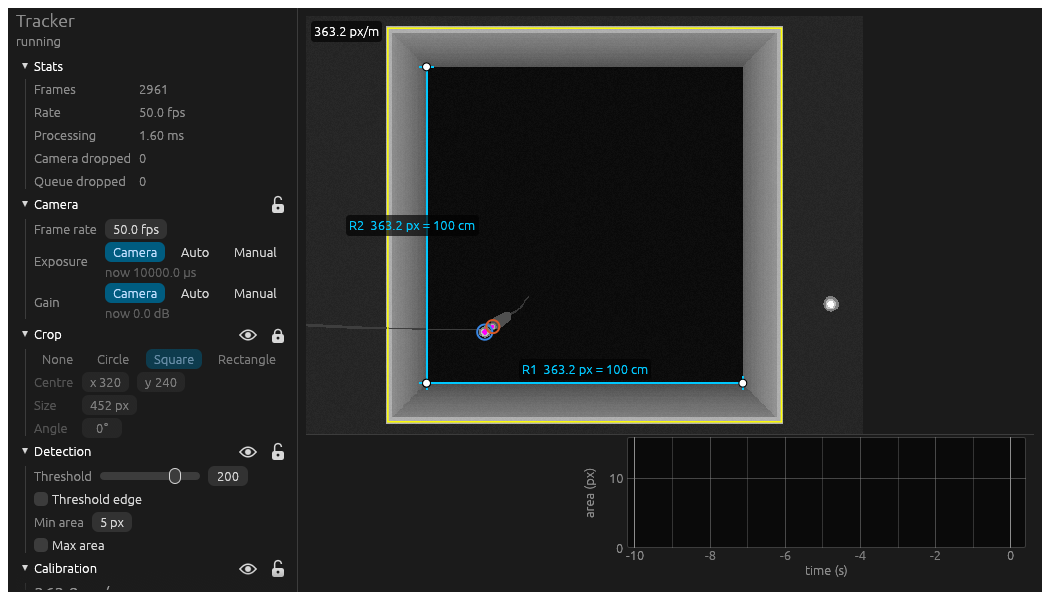
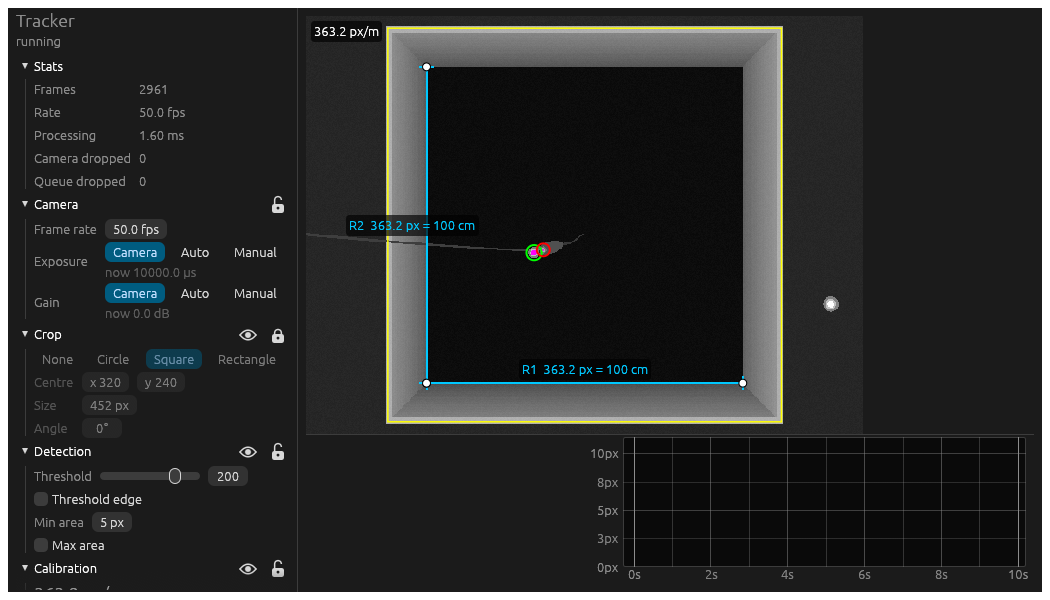
LED chart: green/red, relative seconds, px tick labels, no legend
- Big/small LEDs back to green/red, the long-standing convention (video
  circles and chart); which line is which is clear from their sizes, so no
  legend
- x runs from 0 s at the oldest buffered frame: lines fill from the left,
  then scroll once 10 s are buffered; ticks are labelled 0s, 2s, ...
- y ticks at round steps scaled to the data, labelled 0px, 10px, ...
- No separate axis titles

diff --git a/tracker/src/gui/strip.rs b/tracker/src/gui/strip.rs
@@ -4,7 +4,7 @@
 use std::collections::VecDeque;
 
 use eframe::egui::{self, Color32};
-use egui_plot::{uniform_grid_spacer, Corner, Legend, Line, Plot, PlotBounds};
+use egui_plot::{uniform_grid_spacer, Line, Plot, PlotBounds};
 
 use crate::tracker::LED_HISTORY;
 
@@ -12,52 +12,55 @@ pub const AMBER: Color32 = Color32::from_rgb(230, 170, 60);
 /// Width of the LED chart at the right of the strip.
 pub const READOUT_WIDTH: f32 = 440.0;
 
-/// Big and small LED colours, for dark and light themes: the first two slots of a categorical palette
-/// validated for colour-vision deficiency against egui's panel colours (unlike green/red).
-pub fn led_colours(dark_mode: bool) -> [Color32; 2] {
-    if dark_mode {
-        [Color32::from_rgb(0x39, 0x87, 0xe5), Color32::from_rgb(0xd9, 0x59, 0x26)]
-    } else {
-        [Color32::from_rgb(0x2a, 0x78, 0xd6), Color32::from_rgb(0xeb, 0x68, 0x34)]
-    }
+/// Big (green) and small (red) LED, the colours tracking setups have long used for the two head LEDs.
+/// (Which line is which is also clear from their sizes.)
+pub fn led_colours(_dark_mode: bool) -> [Color32; 2] {
+    [Color32::GREEN, Color32::RED]
 }
 
-/// Areas of the big and small LED over the last `LED_HISTORY` seconds, with time relative to the latest
-/// frame. Frames where an LED wasn't seen leave a gap in its line.
+/// Areas of the big and small LED over the buffered history (up to `LED_HISTORY` seconds), with 0 s at the
+/// oldest buffered frame: the lines fill from the left, then scroll once the buffer is full. Frames where an
+/// LED wasn't seen leave a gap in its line.
 pub fn led_chart(ui: &mut egui::Ui, history: &VecDeque<(f64, [u32; 2])>) {
     let colours = led_colours(ui.visuals().dark_mode);
-    let end = history.back().map_or(0.0, |&(t, _)| t);
-    // Headroom above the data keeps the legend (top left) clear of the lines.
-    let top = history.iter().map(|&(_, a)| a[0].max(a[1])).max().unwrap_or(0).max(10) as f64 * 1.6;
+    let start = history.front().map_or(0.0, |&(t, _)| t);
+    let top = history.iter().map(|&(_, a)| a[0].max(a[1])).max().unwrap_or(0).max(10) as f64 * 1.15;
+    let step = nice_step(top / 5.0);
 
     Plot::new("led_sizes")
         .width(READOUT_WIDTH)
         .height(ui.available_height())
-        .legend(Legend::default().position(Corner::LeftTop))
-        .x_axis_label("time (s)")
         .x_grid_spacer(uniform_grid_spacer(|_| [1.0, 2.0, 10.0]))
-        .y_axis_label("area (px)")
+        .x_axis_formatter(|mark, _| format!("{}s", mark.value.round()))
+        .y_grid_spacer(uniform_grid_spacer(move |_| [step / 2.0, step, step * 10.0]))
+        .y_axis_formatter(|mark, _| format!("{}px", mark.value.round()))
         .allow_zoom(false)
         .allow_drag(false)
         .allow_scroll(false)
         .allow_boxed_zoom(false)
         .allow_double_click_reset(false)
         .show(ui, |plot| {
-            plot.set_plot_bounds(PlotBounds::from_min_max([-LED_HISTORY - 0.2, 0.0], [0.4, top])); // room for the end ticks
+            plot.set_plot_bounds(PlotBounds::from_min_max([-0.3, 0.0], [LED_HISTORY + 0.2, top])); // room for the end ticks
             for (i, name) in ["Big", "Small"].into_iter().enumerate() {
-                for run in seen_runs(history, i, end) {
+                for run in seen_runs(history, i, start) {
                     plot.line(Line::new(name, run).color(colours[i]).width(2.0));
                 }
             }
         });
 }
 
-/// Runs of consecutive frames in which LED `i` was seen, as (seconds before `end`, area) points.
-fn seen_runs(history: &VecDeque<(f64, [u32; 2])>, i: usize, end: f64) -> Vec<Vec<[f64; 2]>> {
+/// A round tick spacing (1, 2 or 5 times a power of ten) of at least `raw`.
+fn nice_step(raw: f64) -> f64 {
+    let power = 10f64.powf(raw.max(1e-9).log10().floor());
+    [1.0, 2.0, 5.0, 10.0].into_iter().map(|m| m * power).find(|&s| s >= raw).unwrap()
+}
+
+/// Runs of consecutive frames in which LED `i` was seen, as (seconds after `start`, area) points.
+fn seen_runs(history: &VecDeque<(f64, [u32; 2])>, i: usize, start: f64) -> Vec<Vec<[f64; 2]>> {
     let mut runs = vec![Vec::new()];
     for &(t, areas) in history {
         if areas[i] > 0 {
-            runs.last_mut().unwrap().push([t - end, areas[i] as f64]);
+            runs.last_mut().unwrap().push([t - start, areas[i] as f64]);
         } else if !runs.last().unwrap().is_empty() {
             runs.push(Vec::new());
         }
@@ -75,9 +78,17 @@ mod tests {
         let history: VecDeque<_> =
             [(1.0, [30, 10]), (1.1, [32, 0]), (1.2, [0, 14]), (1.3, [31, 12])].into_iter().collect();
         let close = |a: f64, b: f64| (a - b).abs() < 1e-9;
-        let big = seen_runs(&history, 0, 1.3);
+        let big = seen_runs(&history, 0, 1.0);
         assert_eq!(big.len(), 2);
-        assert!(close(big[0][0][0], -0.3) && big[0].len() == 2 && big[1].len() == 1);
-        assert_eq!(seen_runs(&history, 1, 1.3).iter().map(Vec::len).collect::<Vec<_>>(), [1, 2]);
+        assert!(close(big[0][0][0], 0.0) && close(big[1][0][0], 0.3) && big[0].len() == 2 && big[1].len() == 1);
+        assert_eq!(seen_runs(&history, 1, 1.0).iter().map(Vec::len).collect::<Vec<_>>(), [1, 2]);
+    }
+
+    #[test]
+    fn tick_steps_are_round() {
+        assert_eq!(nice_step(9.6), 10.0);
+        assert_eq!(nice_step(13.0), 20.0);
+        assert_eq!(nice_step(41.0), 50.0);
+        assert_eq!(nice_step(0.3), 0.5);
     }
 }
